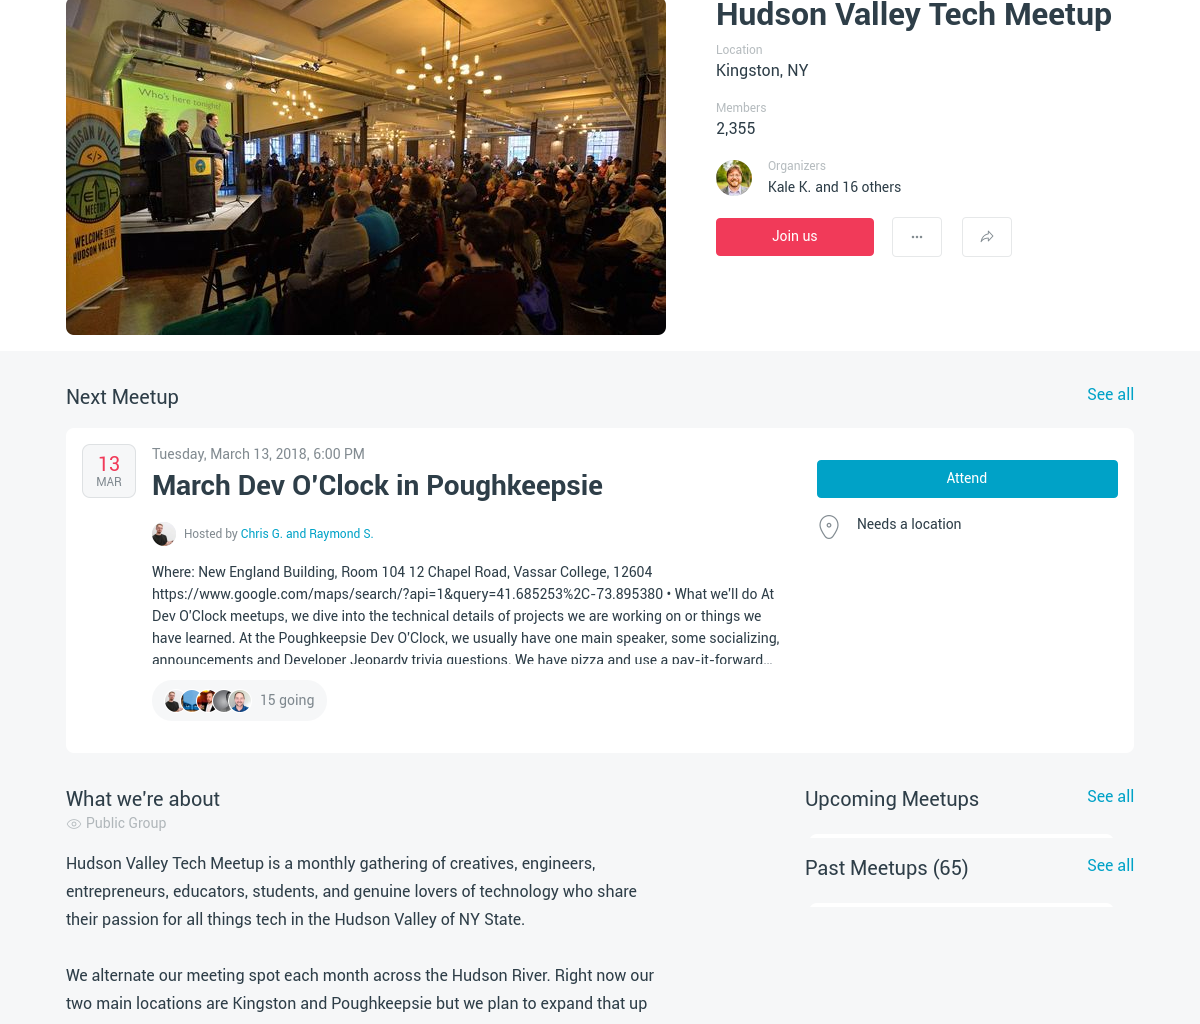
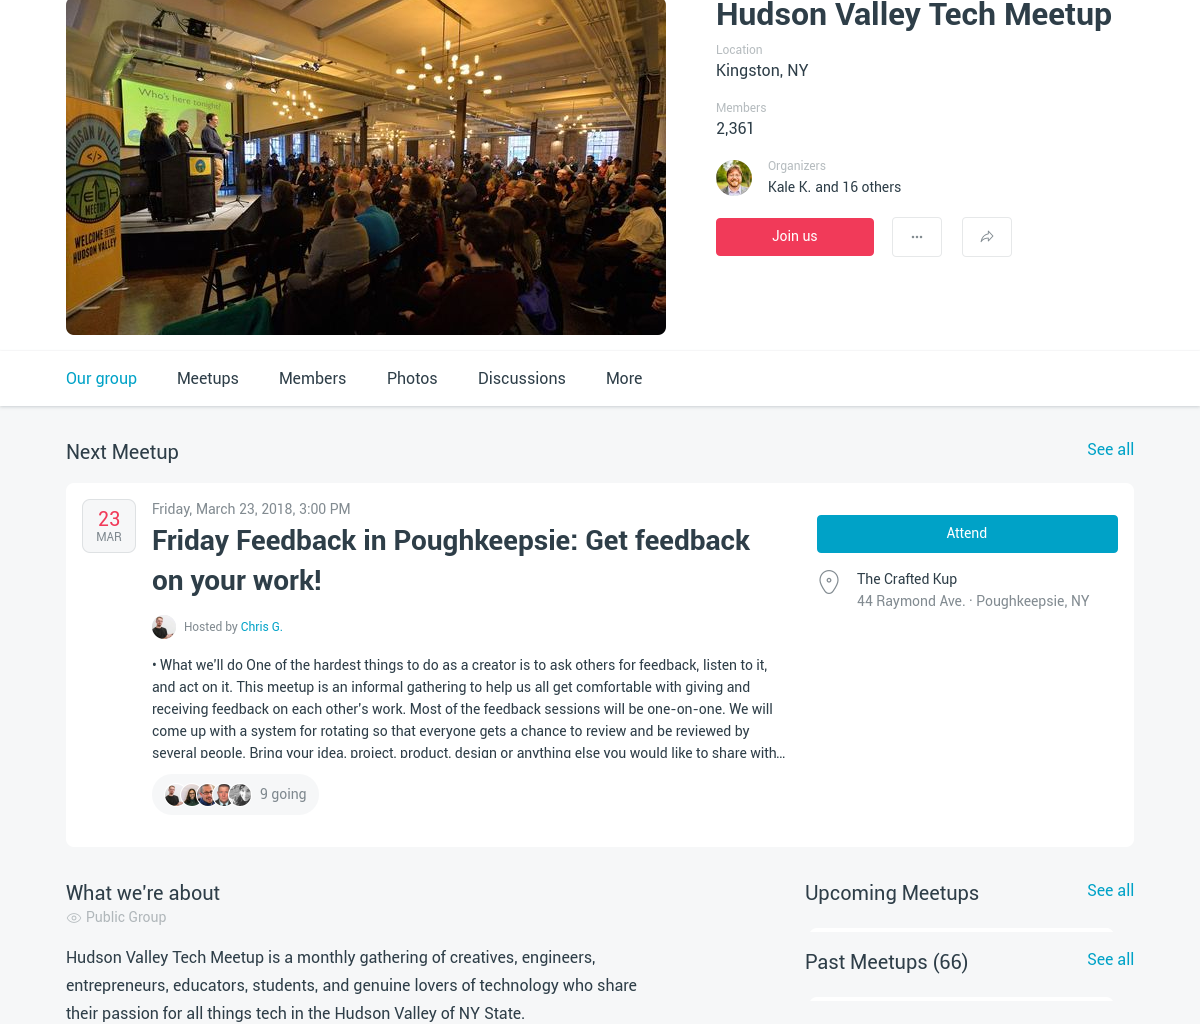
add screen shot for hvopen

diff --git a/phantom/mhvlug.js b/phantom/mhvlug.js
@@ -5,9 +5,9 @@ Capture meetup site to a file
 */
 
 var page = require('webpage').create();
-page.viewportSize = { width: 1800, height: 1024 };
-page.clipRect = { top: 0, left: 300, width: 1200, height: 1024 };
-page.open('https://mhvlug.org', function() {
-  page.render('images/mhvlug.png');
+page.viewportSize = { width: 1200, height: 1024 };
+page.clipRect = { top: 0, left: 0, width: 1200, height: 1024 };
+page.open('https://hvopen.org', function() {
+  page.render('images/hvopen.png');
   phantom.exit();
 });

diff --git a/index.html b/index.html
@@ -201,11 +201,11 @@
 	</div>
 	</section>
 
-	<!-- <section class="smallimg"> -->
-	<!--   <h3>Check us out -->
-	<!--     at <span class="mhvlug">mhvlug.org</span></h3> -->
-        <!--   <img src="images/mhvlug.png"> -->
-	<!-- </section> -->
+	<section class="smallimg">
+	  <h3>Check us out
+	    at <span class="mhvlug">hvopen.org</span></h3>
+          <img src="images/hvopen.png">
+	</section>
 
         <!-- <section> -->
         <!--   <h3>Cellebrate October with Hacktoberfest</h3> -->
